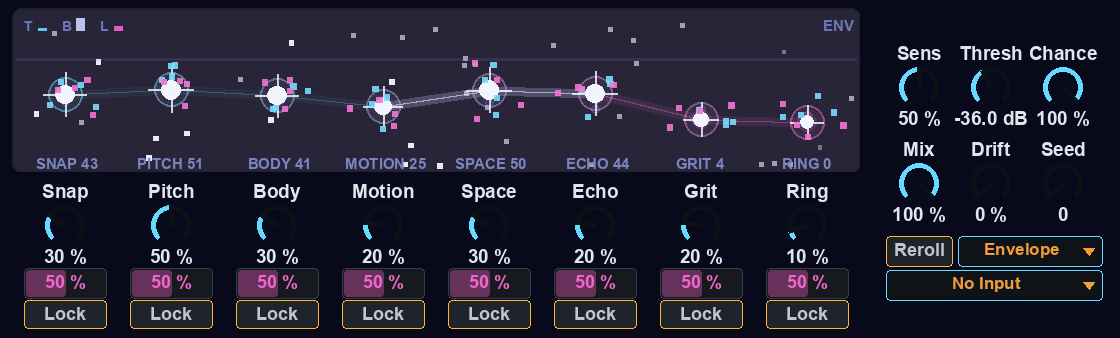
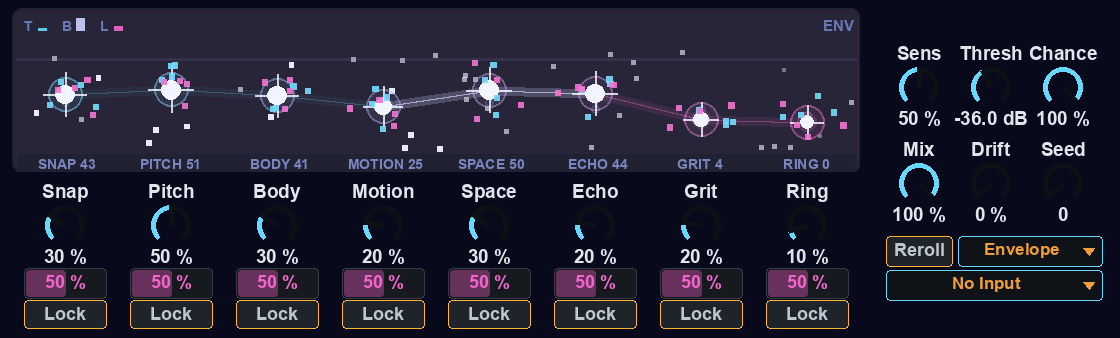
fix(deviate): constellation review findings

diff --git a/src/deviate_face_constellation.js b/src/deviate_face_constellation.js
@@ -11,8 +11,11 @@ var CS_CHAIN_OF_SEG = [0, 0, 0, 1, 1, 2, 2];                       // segment j 
 var CS_CHAIN_COL = [CS_PAL.cyan, CS_PAL.lav, CS_PAL.magenta];
 var CS_TOP = 25, CS_BOTTOM = 57;                                    // star y for value 100 / 0
 var CS_GLIDE_MS = 150;
+var CS_ROW_TOP = 73;                                                // the label row (baseline 80) starts here: nothing but the strip and labels below it
+var CS_ART_TOP = 18;                                                // below the T / B / L legend, mode text and KEPT pill
+var CS_LABEL_PAD = 6;                                               // minimum gap between neighbouring labels
 
-var cs = { init: false, from: [0, 0, 0, 0, 0, 0, 0, 0], tgt: [0, 0, 0, 0, 0, 0, 0, 0], t0: 0, task: null, stars: null };
+var cs = { init: false, from: [0, 0, 0, 0, 0, 0, 0, 0], tgt: [0, 0, 0, 0, 0, 0, 0, 0], t0: 0, task: null, stars: null, pin: null };
 
 var hitZones = [[0, 0, 424, 82]];
 
@@ -34,12 +37,17 @@ function csDisp(i, now) {
     return cs.from[i] + (cs.tgt[i] - cs.from[i]) * e;
 }
 
-function csTick() {
-    mgraphics.redraw();
-    if (cs.task && Date.now() - cs.t0 < CS_GLIDE_MS + 60) cs.task.schedule(40);
+/** the clock: pinned in previews so a still never depends on the wall clock */
+function csNow() {
+    return cs.pin === null ? Date.now() : cs.pin;
 }
 
-function csSync(now) {
+function csTick() {
+    mgraphics.redraw();
+    if (cs.task && csNow() - cs.t0 < CS_GLIDE_MS + 60) cs.task.schedule(40);
+}
+
+function csSync(now, animate) {
     var i, changed = false, t = [];
     for (i = 0; i < CS_COLS; i++) t.push(dvMetaValue(i));
     if (!cs.init) {
@@ -52,6 +60,7 @@ function csSync(now) {
     if (!changed) return;
     for (i = 0; i < CS_COLS; i++) { cs.from[i] = csDisp(i, now); cs.tgt[i] = t[i]; }
     cs.t0 = now;
+    if (!animate || cs.pin !== null) return;                          // paint() never starts a Task
     dvAnimate(CS_GLIDE_MS + 80);
     if (typeof Task !== "undefined") {
         if (!cs.task) cs.task = new Task(csTick, this);
@@ -62,13 +71,13 @@ function csSync(now) {
 function csStars() {
     if (cs.stars) return cs.stars;
     var rng = dvRng(1234), a = [], i;
-    for (i = 0; i < 36; i++) a.push({ x: 3 + rng() * 418, y: 3 + rng() * 76, ph: i * 3 });
+    for (i = 0; i < 36; i++) a.push({ x: 3 + rng() * 418, y: CS_ART_TOP + rng() * (CS_ROW_TOP - 3 - CS_ART_TOP), ph: i * 3 });
     cs.stars = a;
     return a;
 }
 
 function onFrame() {
-    csSync(Date.now());
+    csSync(Date.now(), true);
     return true;
 }
 
@@ -79,7 +88,8 @@ function onclick() {
 function preview() {
     dvPreviewBase();
     cs.init = false;
-    csSync(0);
+    cs.pin = 0;
+    csSync(0, false);
 }
 
 function csPaintTwinkle(W, H) {
@@ -106,13 +116,13 @@ function csPaintParticles(xs, ys, vals, flash) {
     var rng = dvRng(dvTel.hits * 131 + dvTel.serial * 7 + 3);
     var spread = 0.55 + dvTel.ring;                                 // the Ring meta throws the sparks further
     var t = age / 1000, grow = 1 - Math.exp(-t / 0.05);
-    var A = Math.pow(env, 0.7) * 0.9, i, j, c, W = 424, H = 82;
+    var A = Math.pow(env, 0.7) * 0.9, i, j, c, W = 424;
     for (c = 0; c < 2; c++) {                                       // two colours: cyan and magenta sparks
         if (dvTel.gate) { dvColor(c ? CS_PAL.magenta : CS_PAL.cyan, A); } else { dvColor(CS_PAL.kept, A * 0.8); mgraphics.set_line_width(1); }
         for (i = 0; i < CS_COLS; i++) {
             for (j = 0; j < 4; j++) {
                 var ang = rng() * 6.2832, sp = (14 + rng() * 40) * spread * (1 + 0.5 * flash);
-                var px = dvClamp(xs[i] + Math.cos(ang) * sp * grow, 2, W - 3), py = dvClamp(ys[i] + Math.sin(ang) * sp * grow * 0.8, 2, H - 3);
+                var px = dvClamp(xs[i] + Math.cos(ang) * sp * grow, 2, W - 3), py = dvClamp(ys[i] + Math.sin(ang) * sp * grow * 0.8, CS_ART_TOP, CS_ROW_TOP - 3);
                 if (dvTel.gate) { mgraphics.rectangle(px - 1, py - 1, 2.6, 2.6); mgraphics.fill(); }
                 else { mgraphics.ellipse(px - 2, py - 2, 4, 4); mgraphics.stroke(); }
             }
@@ -120,10 +130,27 @@ function csPaintParticles(xs, ys, vals, flash) {
     }
 }
 
+/** the meta labels on a solid strip, shortened to the bare name when "NAME 100" would crowd the neighbouring label */
+function csLabel(i, colW) {
+    var full = DV_METAS[i].toUpperCase() + " " + Math.round(dvMetaValue(i));
+    return dvTextW(full, 7, false) <= colW - CS_LABEL_PAD ? full : DV_METAS[i].toUpperCase();
+}
+
+function csPaintLabels(xs, W, H) {
+    var i, colW = W / CS_COLS;
+    dvColor(CS_PAL.bg);
+    mgraphics.rectangle(3, CS_ROW_TOP, W - 6, H - CS_ROW_TOP - 1);
+    mgraphics.fill();
+    for (i = 0; i < CS_COLS; i++) {
+        var lab = csLabel(i, colW);
+        dvText(lab, xs[i] - dvTextW(lab, 7, false) / 2, 80, 7, CS_PAL.dim, false);
+    }
+}
+
 function paint() {
-    var W = mgraphics.size[0], H = mgraphics.size[1], i, now = Date.now();
+    var W = mgraphics.size[0], H = mgraphics.size[1], i, now = csNow();
     var gate = dvTel.gate, age = dvTel.ageMs, flash = age >= 0 ? Math.max(0, 1 - age / 180) : 0;
-    csSync(now);
+    csSync(now, false);
     // night sky, with the afterglow of the Ring tail
     dvColor(CS_PAL.bg);
     mgraphics.rectangle_rounded(0, 0, W, H, 5, 5);
@@ -160,7 +187,7 @@ function paint() {
     for (i = 0; i < CS_COLS; i++) {
         var k = DV_META_KEYS[i], x = xs[i], y = ys[i], v = vals[i];
         var home = csYOf(dvParam("v_" + k)), rg = dvClamp(dvParam("r_" + k), 0, 100) / 100;
-        var R = 3 + 11 * rg, sc = csMix(CS_PAL.cyan, CS_PAL.magenta, i / 7);
+        var R = dvClamp(3 + 11 * rg, 3, Math.min(CS_ROW_TOP - 2 - y, y - CS_ART_TOP)), sc = csMix(CS_PAL.cyan, CS_PAL.magenta, i / 7);
         if (Math.abs(home - y) > 1.5) {
             dvColor(CS_PAL.dim, 0.35);
             mgraphics.rectangle(x, Math.min(home, y), 1, Math.abs(home - y));
@@ -177,7 +204,7 @@ function paint() {
         mgraphics.set_line_width(1);
         dvColor(sc, gate ? 0.45 : 0.25);
         dvCircle(x, y, R); mgraphics.stroke();
-        var sz = (2.2 + v / 100 * 1.6) * (1 + 0.7 * flash), sp = sz * 2.4;
+        var sz = (2.2 + v / 100 * 1.6) * (1 + 0.7 * flash), sp = Math.min(sz * 2.4, CS_ROW_TOP - 2 - y, y - CS_ART_TOP);
         dvColor(gate ? CS_PAL.white : CS_PAL.kept, 0.5 + 0.4 * flash);
         mgraphics.move_to(x - sp, y); mgraphics.line_to(x + sp, y);
         mgraphics.move_to(x, y - sp); mgraphics.line_to(x, y + sp);
@@ -189,10 +216,9 @@ function paint() {
             dvPoly([[x, 66], [x + 3, 69], [x, 72], [x - 3, 69]], true);
             mgraphics.fill();
         }
-        var lab = DV_METAS[i].toUpperCase() + " " + Math.round(dvMetaValue(i));
-        dvText(lab, x - dvTextW(lab, 7.5, false) / 2, 80, 7.5, CS_PAL.dim, false);
     }
     csPaintParticles(xs, ys, vals, flash);
+    csPaintLabels(xs, W, H);
 
     // the onset flash: a white wash for an accepted hit, a violet frame when Chance rejected it
     if (flash > 0.01) {

diff --git a/tests/test_deviate_face_constellation.js b/tests/test_deviate_face_constellation.js
@@ -38,4 +38,45 @@ function stream(kind, age, gate) {
 R.ok(stream("hit", 30, 1) === stream("hit", 30, 1), "paint is deterministic");
 R.ok(stream("hit", 30, 1) !== stream("hit", 400, 1), "sparks move with the hit age");
 R.ok(stream("hit", 30, 1) !== stream("hit", 30, 0), "a rejected hit looks different");
+
+// regression: the label row (y >= 73) is clear of stars / sparks / halos, labels do not crowd, paint starts no Task and ignores the wall clock
+const ROW = 73;
+for (const [kind, age, gate] of [["hit", 30, 1], ["hit", 400, 0], ["extreme", 30, 1], ["idle", -1, 1]]) {
+    const f = F.loadFace(dev.byId["obj-lay-sky"].textfile.text, { width: sw, height: sh, id: "sky", filename: "sky.js", seed: 1, globals: {} });
+    const ops = [];
+    for (const k of Object.keys(f.rec.mgraphics)) {
+        const fn = f.rec.mgraphics[k];
+        if (typeof fn === "function" && !["text_measure", "init", "redraw"].includes(k)) f.rec.mgraphics[k] = function (...a) { ops.push([k, ...a]); return fn.apply(this, a); };
+    }
+    let tasks = 0, nowCalls = 0;
+    f.sandbox.Task = function () { if (!/m4lThemeWatch/.test(new Error().stack)) tasks++; // the shared theme wrapper's own watcher is not the face's
+        this.schedule = () => {}; };
+    const realNow = Date.now;
+    f.sandbox.Date = { now() { nowCalls++; return realNow(); } };
+    f.sandbox.DV_PREVIEW_STATE = { kind, ageMs: age, gate };
+    F.call(f, "preview", []);
+    tasks = 0;
+    f.rec.begin("x"); F.call(f, "paint", []); f.rec.end();
+    R.ok(tasks === 0, `${kind}: paint/preview create no Task`);
+    R.ok(nowCalls === 0, `${kind}: paint/preview never read the wall clock`);
+    const strip = ops.findIndex((o) => o[0] === "rectangle" && o[2] === ROW);
+    R.ok(strip > 0, `${kind}: label strip drawn`);
+    const before = ops.slice(0, strip);
+    const bad = before.filter((o) => {
+        if (o[0] === "ellipse") return o[2] + o[4] > ROW + 0.01;
+        if (o[0] === "rectangle") return o[2] + o[4] > ROW + 0.01;
+        if (o[0] === "move_to" || o[0] === "line_to") return o[2] > ROW + 0.01;
+        return false;
+    });
+    R.ok(bad.length === 0, `${kind}: no star/spark/halo reaches the label row (${bad.length} offenders ${JSON.stringify(bad[0] || "")})`);
+    let shown = 0, end = strip + 1;
+    while (end < ops.length && shown < 8) { if (ops[end][0] === "show_text") shown++; end++; }
+    const after = ops.slice(strip + 2, end).filter((o) => ["ellipse", "line_to", "stroke", "rectangle", "fill"].includes(o[0]));
+    R.ok(after.length === 0, `${kind}: only text is drawn on the label strip`);
+    // label widths: neighbours keep a gap in a 53 px column even at value 100
+    const colW = sw / 8;
+    const wmax = vm_eval(f, "(function(){var m=0,i;for(i=0;i<8;i++){var w=dvTextW(csLabel(i, " + colW + "),7,false);if(w>m)m=w;}return m;})()");
+    R.ok(wmax <= colW - 6 + 0.01, `${kind}: widest label ${wmax.toFixed(1)} leaves a gap in a ${colW} px column`);
+}
+function vm_eval(f, code) { return require("vm").runInContext(code, f.sandbox); }
 R.done();
